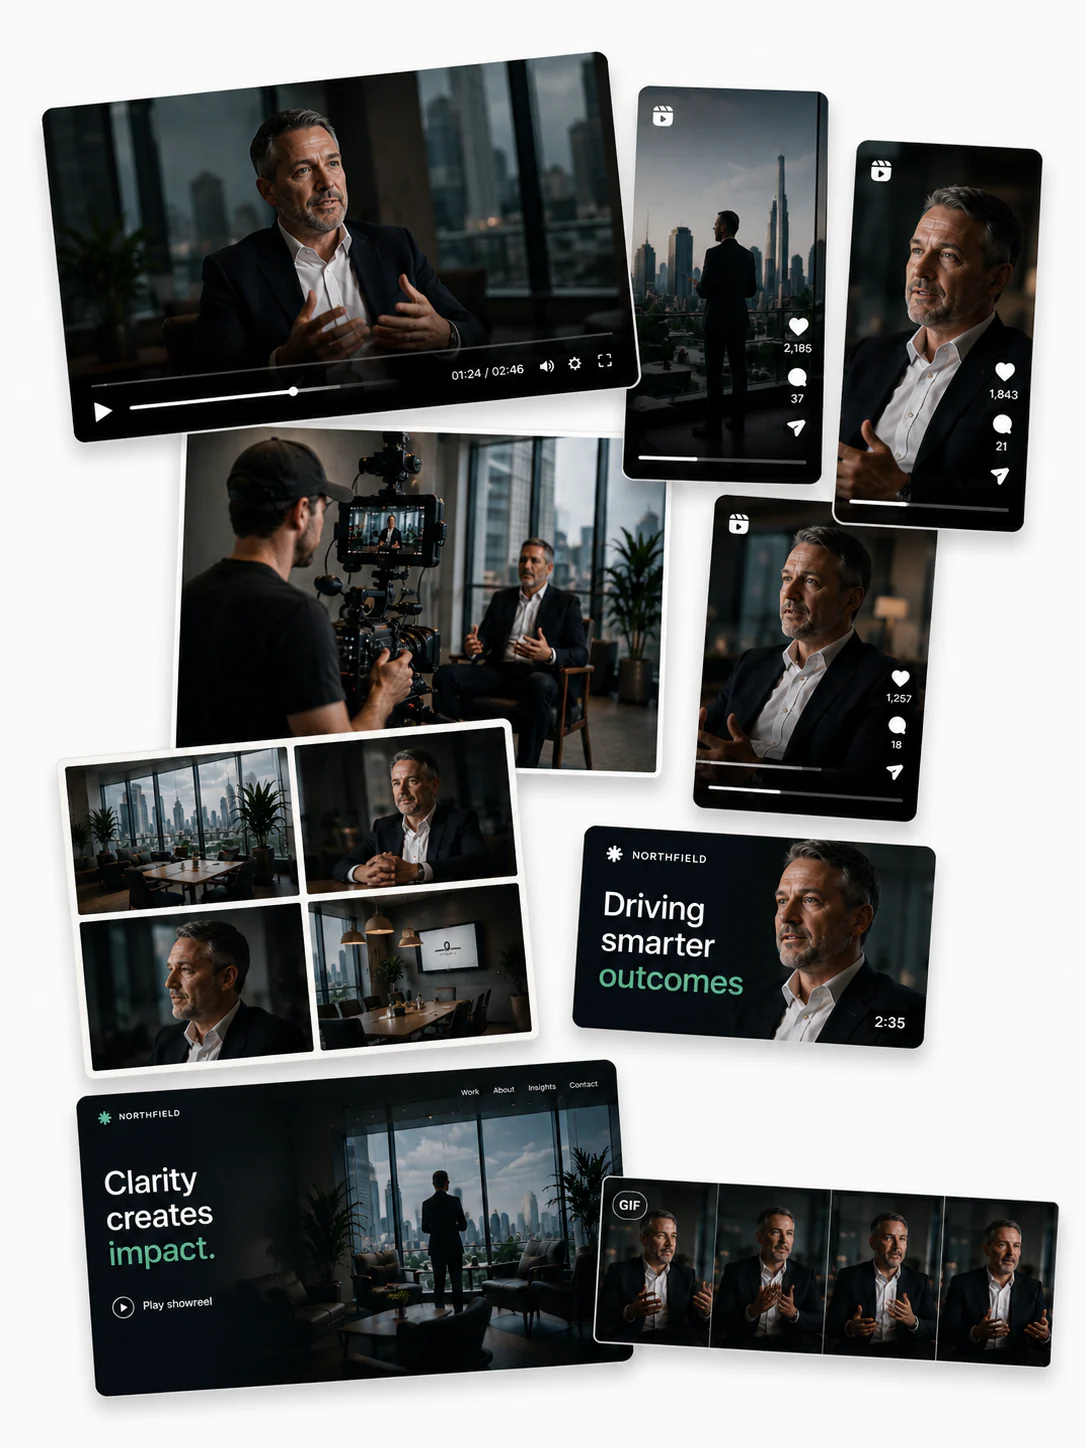
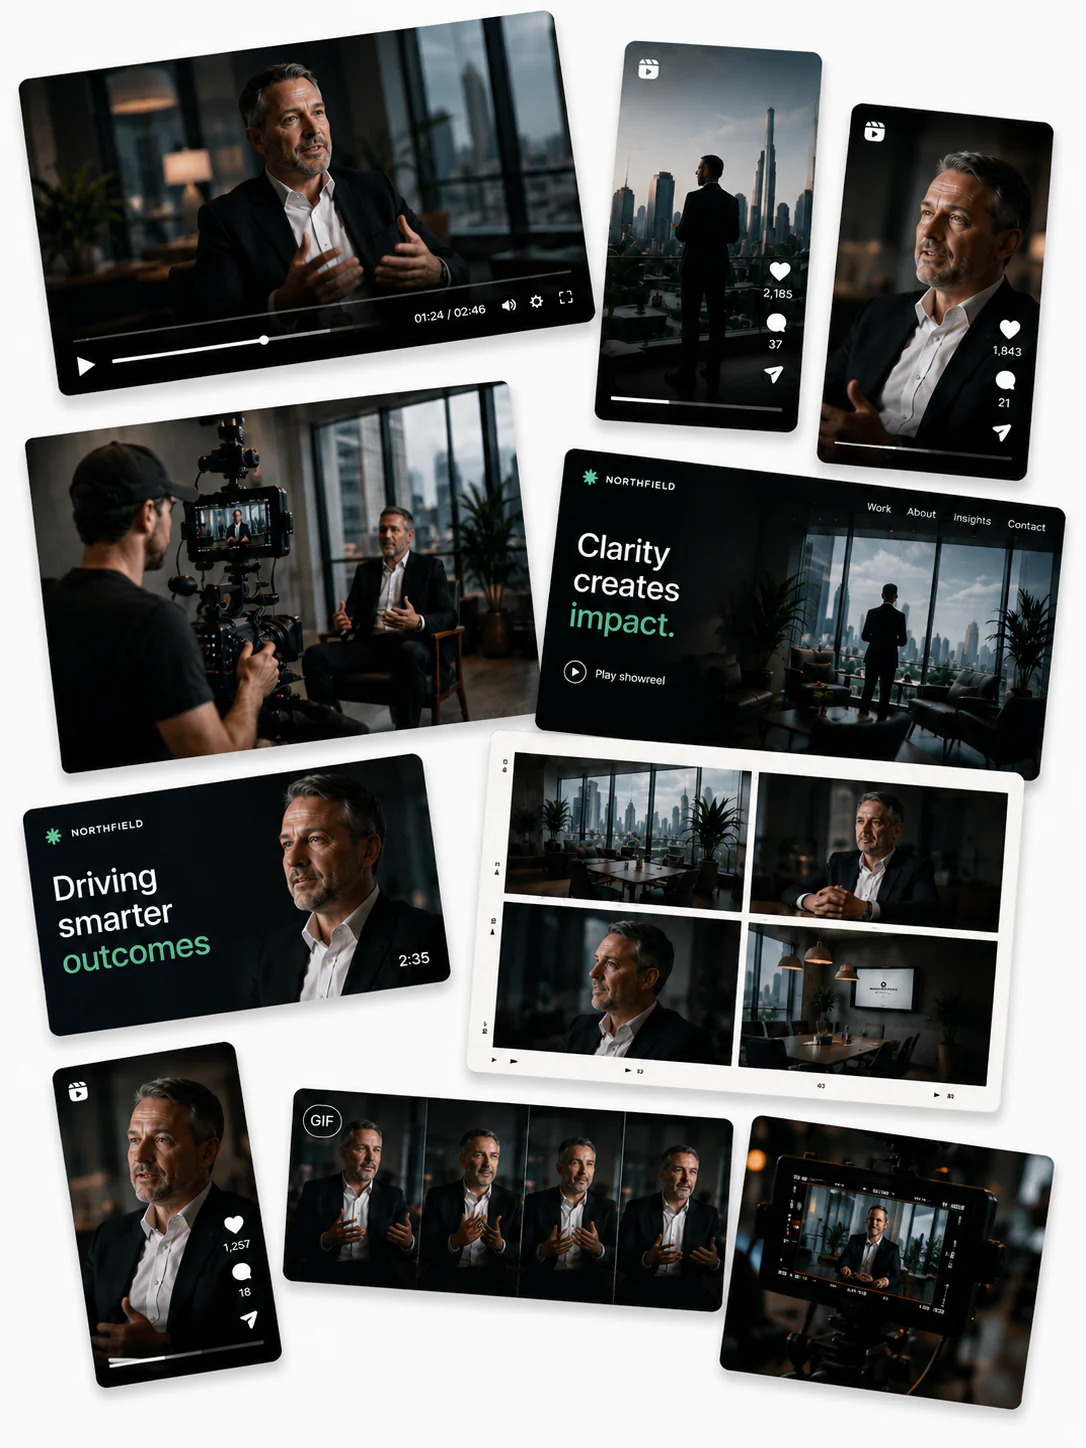
Use supplied Why Black Iris hero copy

diff --git a/app/why-black-iris-films/page.tsx b/app/why-black-iris-films/page.tsx
@@ -195,19 +195,15 @@ export default function WhyBlackIrisFilmsPage() {
 
 function WhyHero() {
   return (
-    <section className="overflow-hidden bg-white pb-16 pt-28 md:pb-24 md:pt-36">
+    <section className="overflow-hidden bg-[#ffffff] pb-16 pt-28 md:pb-24 md:pt-36">
       <div className="mx-auto grid max-w-[1260px] items-center gap-12 px-6 lg:grid-cols-[0.9fr_1.1fr] lg:gap-16 lg:px-10">
         <div className="relative z-10">
-          <p className="mb-5 text-[11px] font-bold uppercase tracking-[0.22em] text-mint">
-            Why Black Iris Films?
-          </p>
           <h1 className="max-w-3xl text-4xl font-bold leading-[1.04] text-navy md:text-5xl lg:text-6xl">
-            We turn strong stories into content your brand can keep using.
+            One production. A library of content that works harder.
           </h1>
           <p className="mt-6 max-w-2xl text-base font-light leading-relaxed text-slate md:text-lg">
-            Black Iris Films is built for teams who need more than a beautiful video.
-            We combine filmmaking craft with marketing-team experience, then leave you
-            with a practical library of assets for websites, campaigns, social and sales.
+            We turn one shoot into a complete suite of video, photography and motion
+            assets&mdash;so your story keeps working across every channel.
           </p>
           <div className="mt-8 flex flex-wrap gap-4">
             <a

diff --git a/app/components/WhyHeroSlideshow.tsx b/app/components/WhyHeroSlideshow.tsx
@@ -34,7 +34,7 @@ export function WhyHeroSlideshow() {
   }, []);
 
   return (
-    <div className="relative mx-auto aspect-[3/4] w-full max-w-[500px] overflow-hidden rounded-lg bg-white shadow-[0_22px_60px_rgba(15,24,38,0.13)]">
+    <div className="relative mx-auto aspect-[3/4] w-full max-w-[500px] overflow-hidden rounded-lg bg-[#ffffff] shadow-[0_22px_60px_rgba(15,24,38,0.13)]">
       {slides.map((slide, index) => (
         <Image
           key={slide.src}
